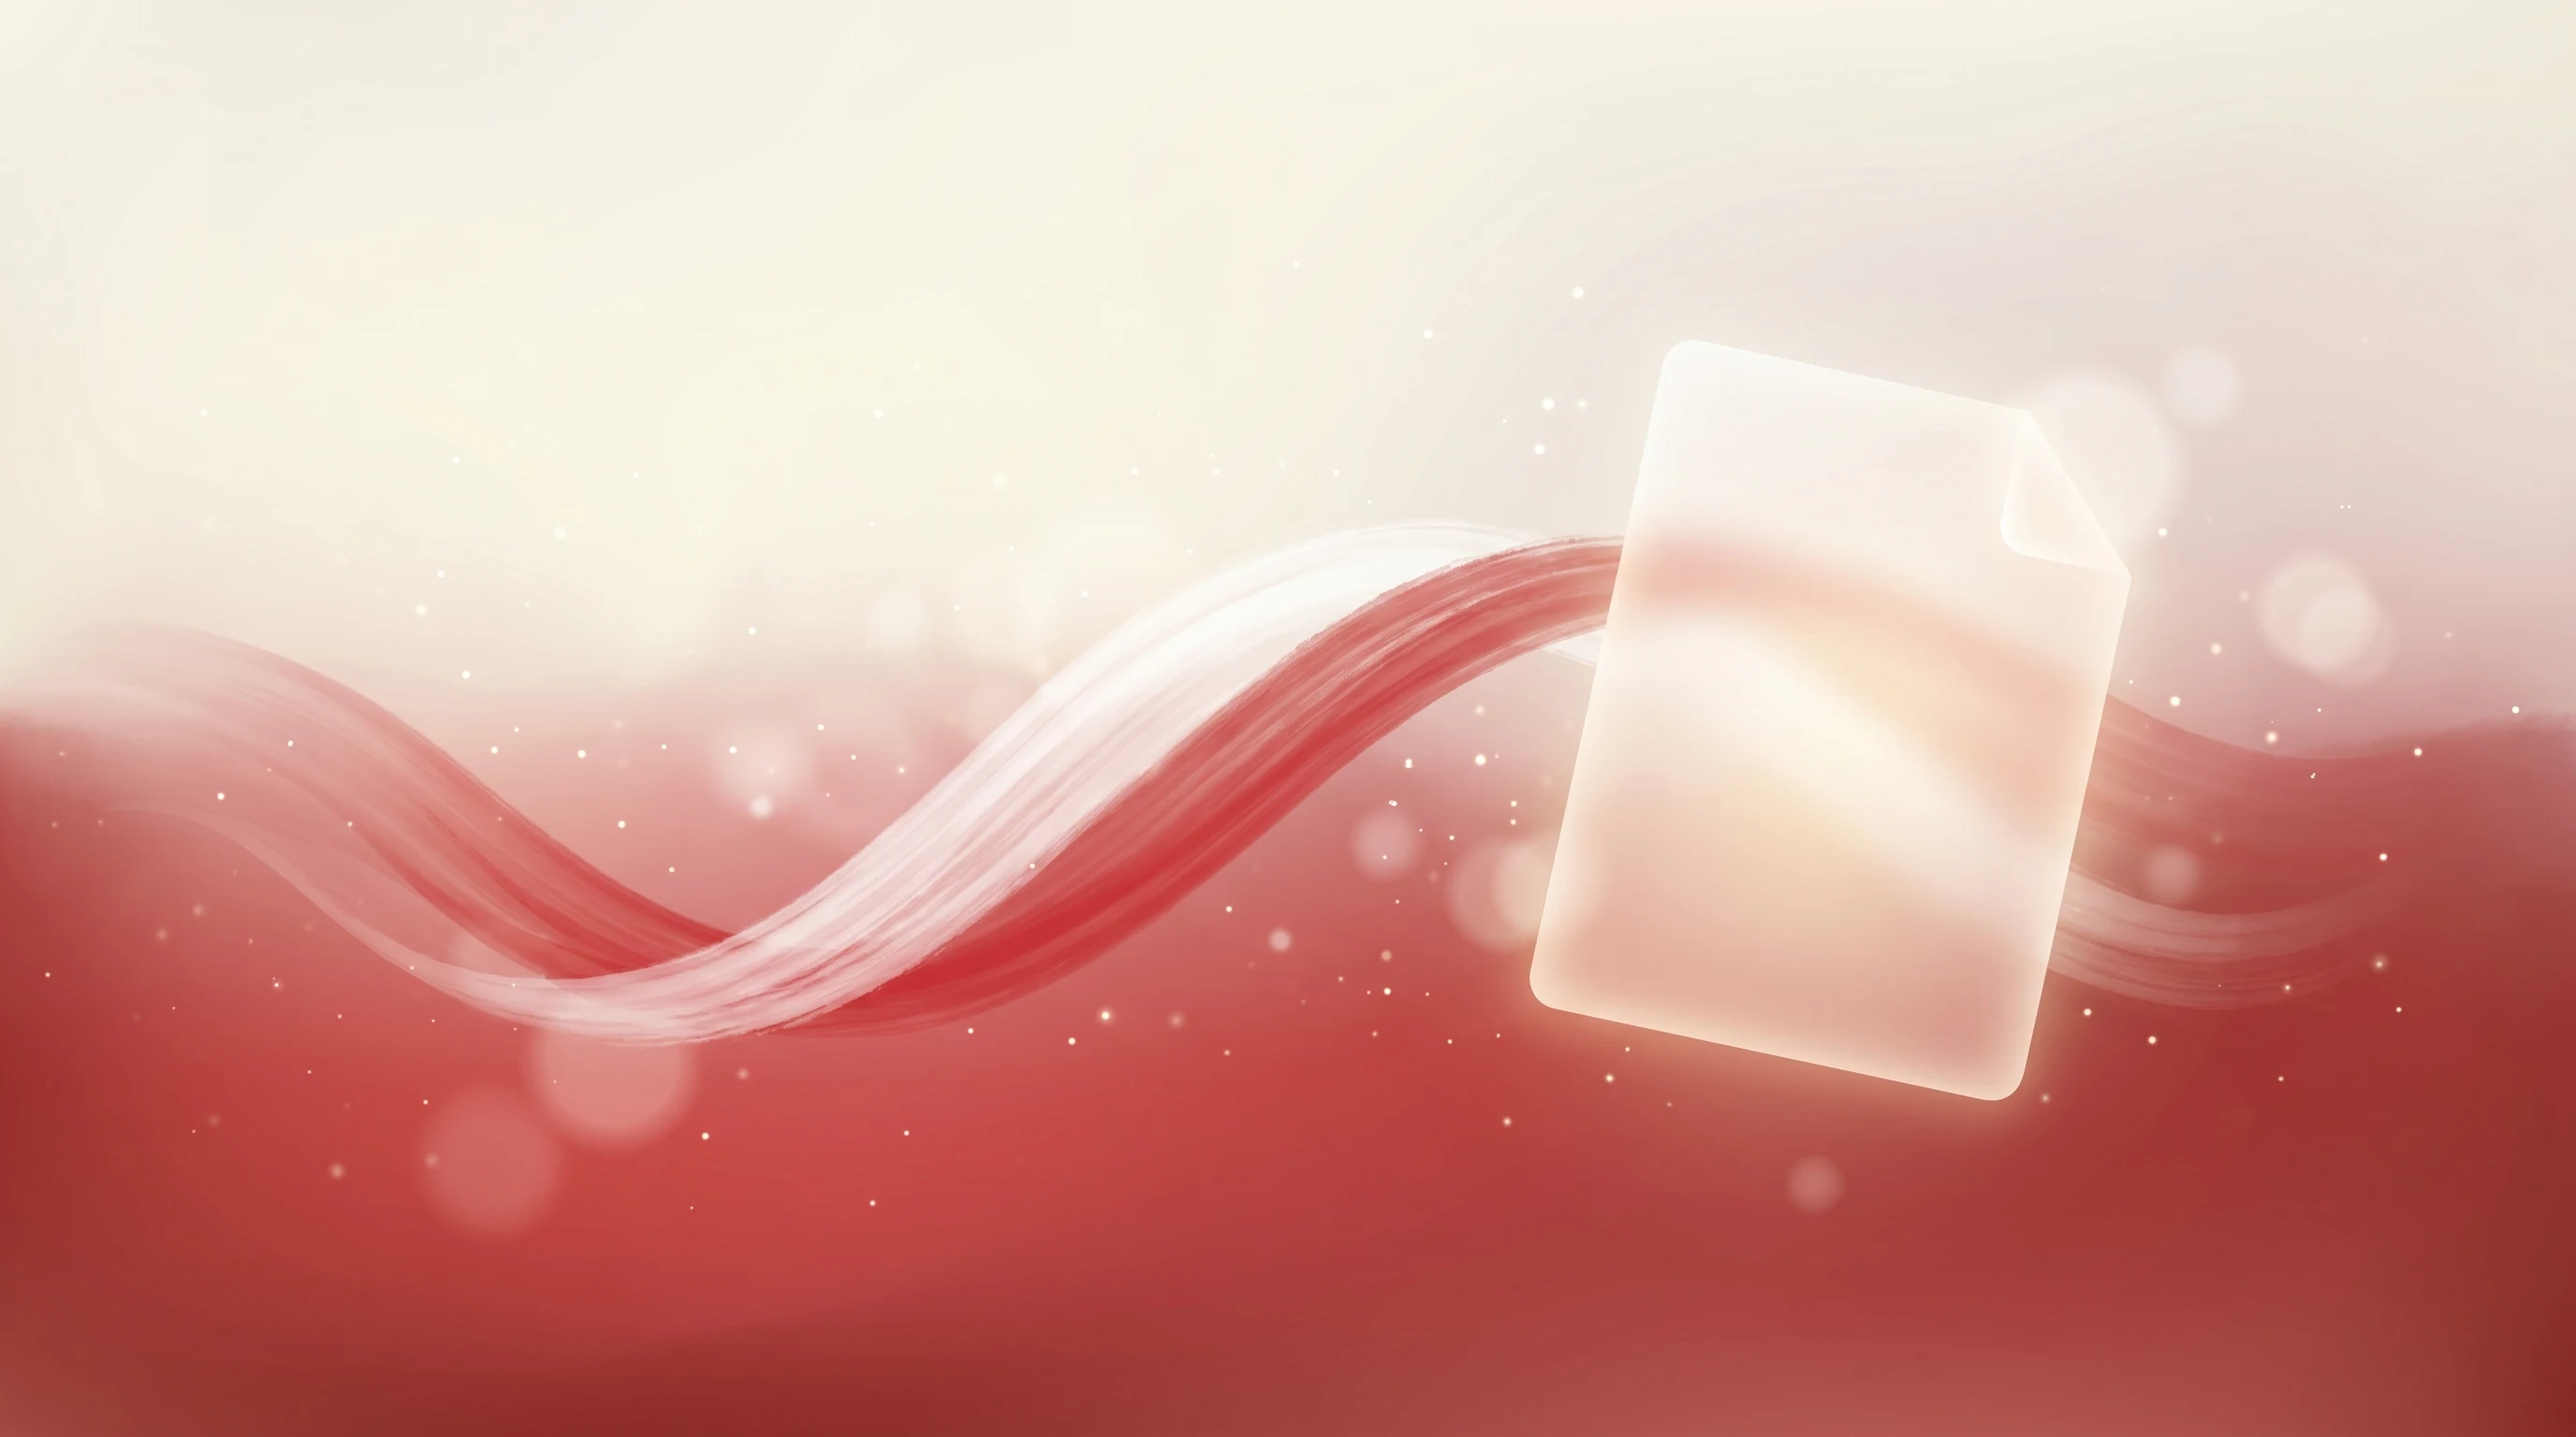
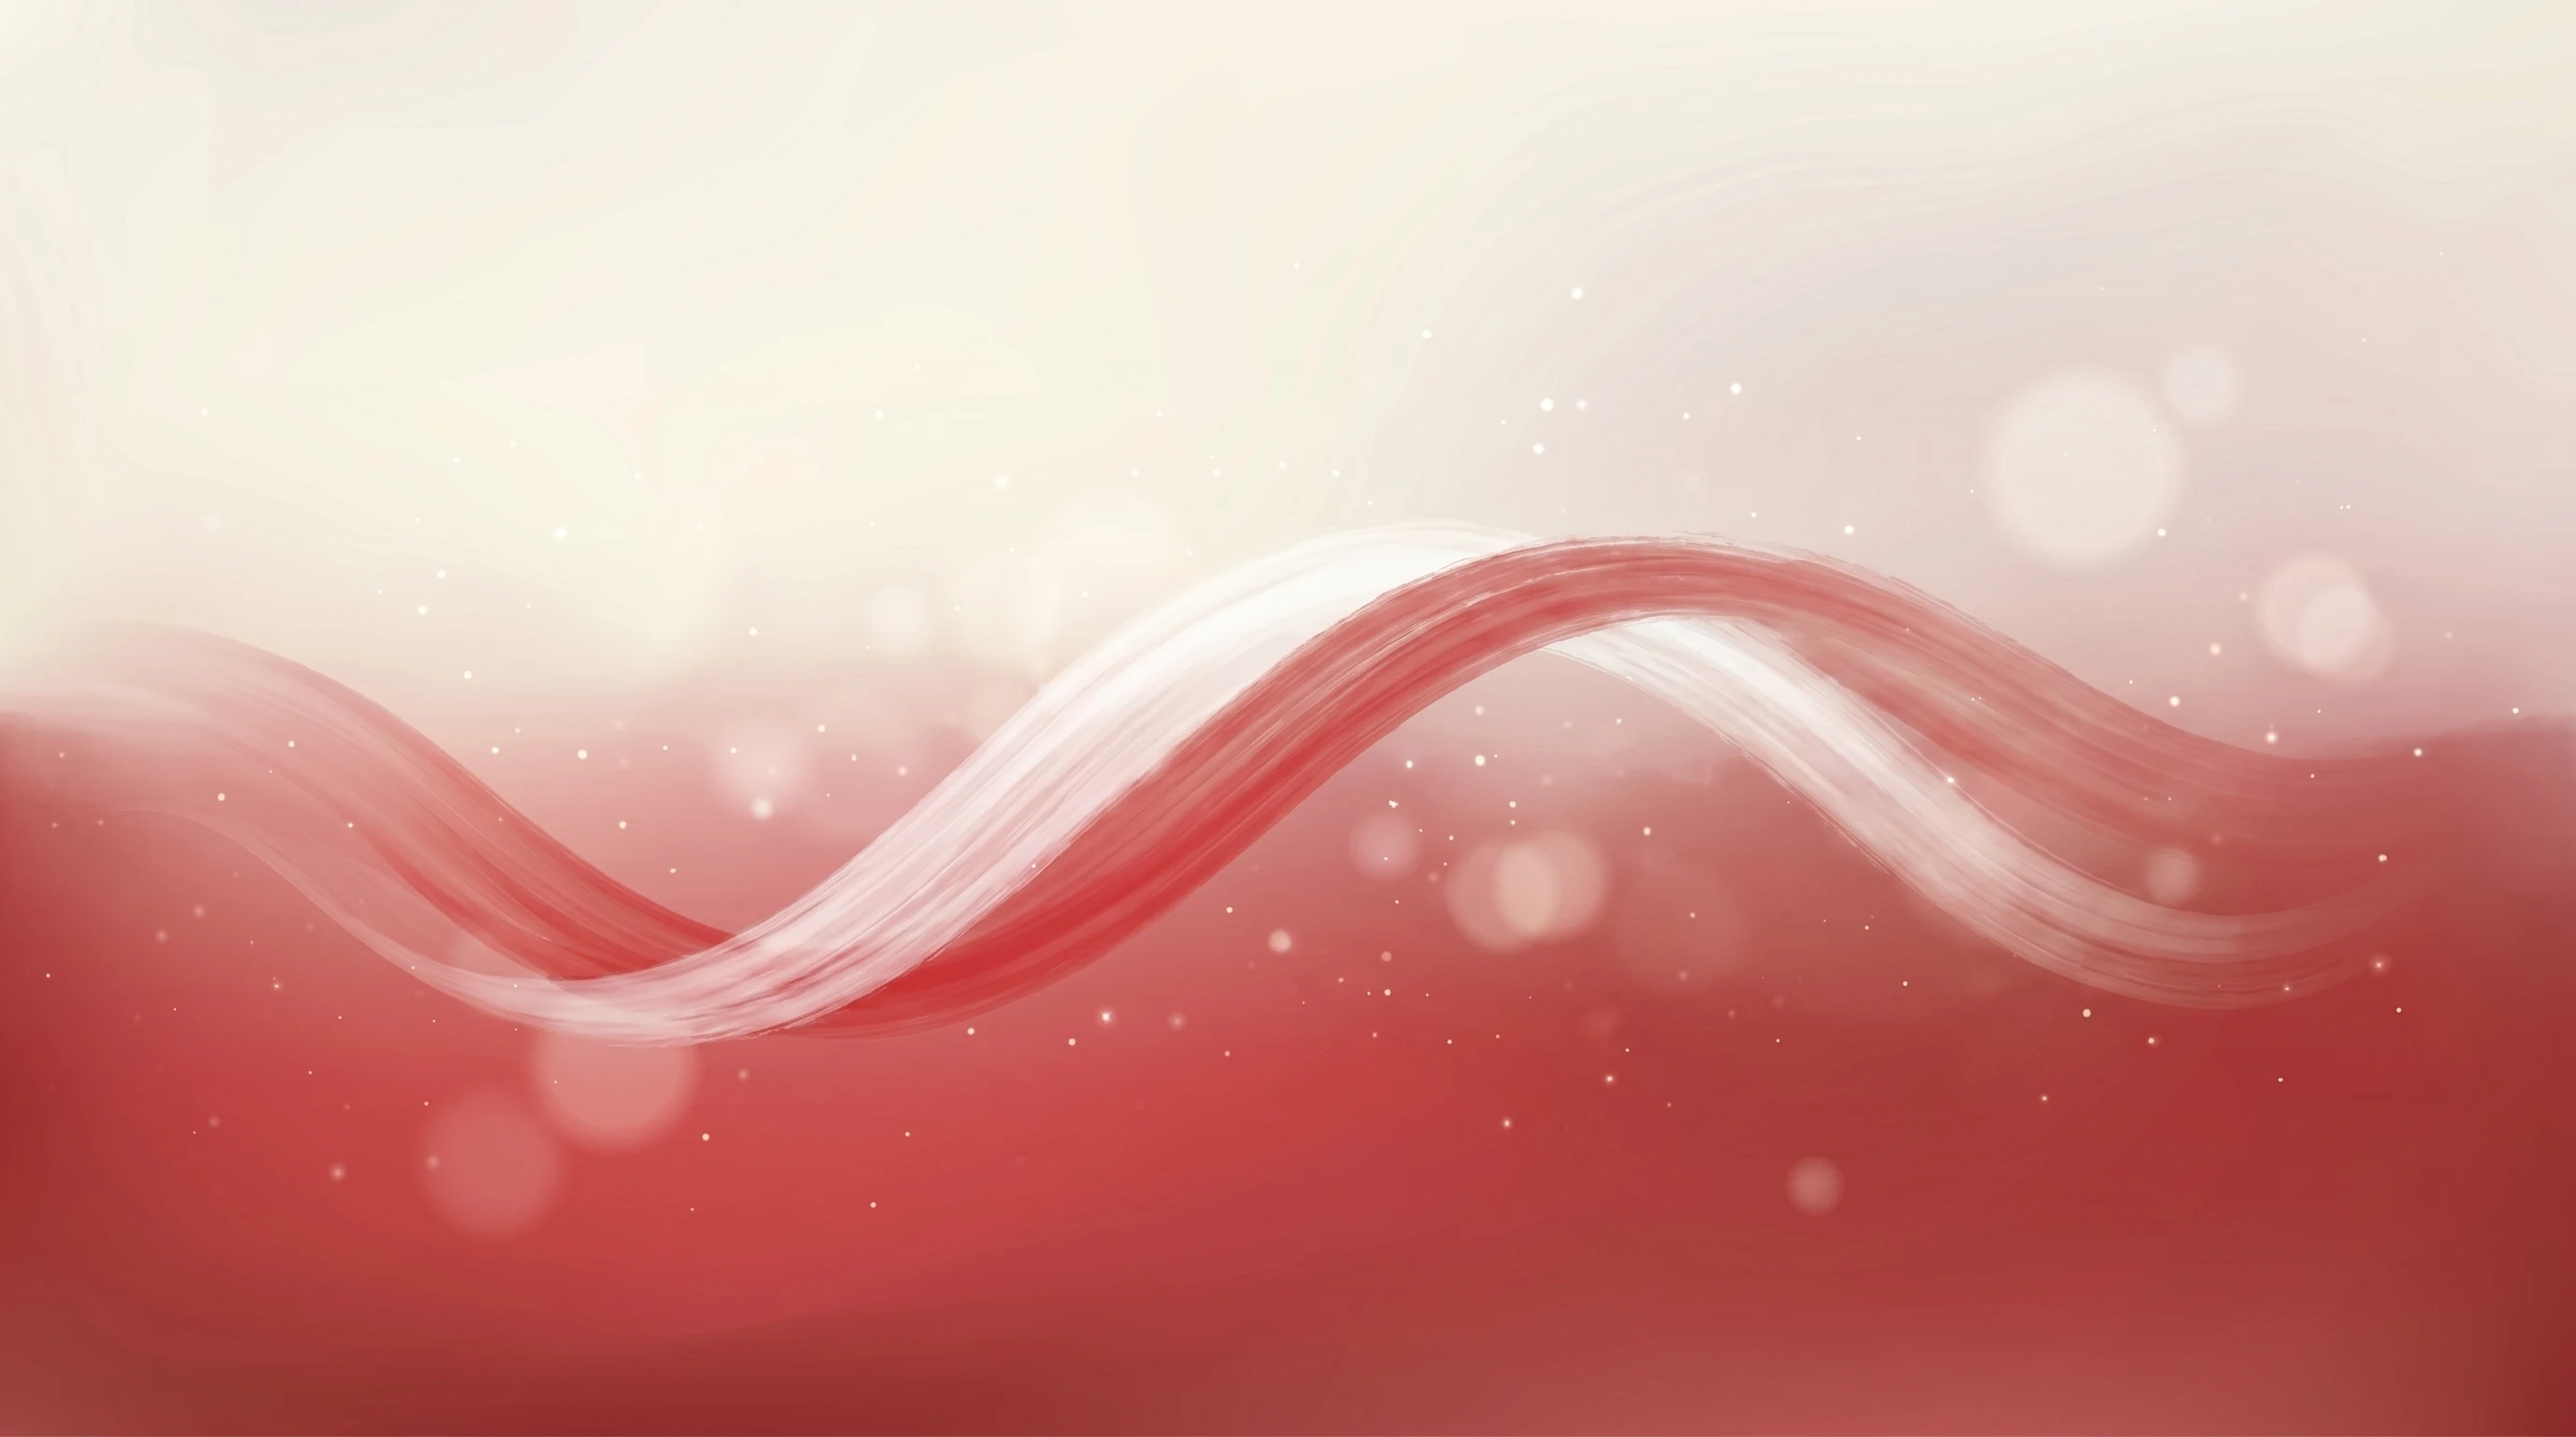
Instrukcje: poprawki banerow, box serwisowy i glow CTA
- banner-pl: usunieta kartka (zostaje gradient bialo-czerwony + wstega).
- banner-quick-start: motyw predkosci (smugi pedu + strzalka) zamiast dokumentu.
- box w aside zmieniony na serwisowy: "Masz problem z {model}?" + CTA do
  /serwis/{marka} (brand-aware).
- AttentionGlow: jednorazowy kolorowy glow pod boxem "Kup ..." ~3,5 s po
  wejsciu (styl Google), szanuje prefers-reduced-motion.

Changed region(s): [[0.5625, 0.2188, 0.8438, 0.8125]]

diff --git a/src/app/instrukcje/[slug]/page.tsx b/src/app/instrukcje/[slug]/page.tsx
@@ -14,6 +14,7 @@ import {
   PL_MANUAL_BANNER,
 } from '@/data/manuals'
 import { getProductBySlug } from '@/data/products'
+import AttentionGlow from '@/app/instrukcje/_components/AttentionGlow'
 
 interface PageProps {
   params: Promise<{ slug: string }>
@@ -174,28 +175,31 @@ export default async function ManualHubPage({ params }: PageProps) {
           {/* Prawa: produkt + CTA */}
           <aside className="lg:col-span-1 space-y-6">
             {product && (
-              <div className="rounded-xl border border-slate-200 p-5">
-                <h3 className="font-bold text-slate-900">Kup {manual.name}</h3>
-                <p className="text-sm text-slate-600 mt-1">{product.shortDescription}</p>
-                <Link
-                  href={`/produkt/${product.slug}`}
-                  className="inline-flex items-center gap-1 mt-4 text-sm font-medium text-blue-600 hover:underline"
-                >
-                  Zobacz w sklepie <ChevronRightIcon size={16} />
-                </Link>
-              </div>
+              <AttentionGlow>
+                <div className="rounded-xl border border-slate-200 bg-white p-5">
+                  <h3 className="font-bold text-slate-900">Kup {manual.name}</h3>
+                  <p className="text-sm text-slate-600 mt-1">{product.shortDescription}</p>
+                  <Link
+                    href={`/produkt/${product.slug}`}
+                    className="inline-flex items-center gap-1 mt-4 text-sm font-medium text-blue-600 hover:underline"
+                  >
+                    Zobacz w sklepie <ChevronRightIcon size={16} />
+                  </Link>
+                </div>
+              </AttentionGlow>
             )}
 
             <div className="rounded-xl border border-slate-200 bg-slate-50 p-5">
-              <h3 className="font-bold text-slate-900">Potrzebujesz pomocy z {manual.model}?</h3>
+              <h3 className="font-bold text-slate-900">Masz problem z {manual.name}?</h3>
               <p className="text-sm text-slate-600 mt-1">
-                Doradzimy w konfiguracji, wdrożeniu floty i serwisie urządzeń auto-ID.
+                Nie skanuje, nie włącza się albo zgłasza błąd? Zdiagnozujemy usterkę, naprawimy
+                urządzenie i pomożemy w konfiguracji oraz wdrożeniu floty.
               </p>
               <Link
-                href="/kontakt"
+                href={`/serwis/${manual.brand.toLowerCase()}`}
                 className="inline-flex items-center justify-center w-full mt-4 px-4 py-2.5 rounded-lg bg-blue-600 text-white text-sm font-medium hover:bg-blue-700 transition-colors"
               >
-                Skontaktuj się
+                Zgłoś do serwisu
               </Link>
             </div>
           </aside>

diff --git a/src/app/instrukcje/_components/AttentionGlow.tsx b/src/app/instrukcje/_components/AttentionGlow.tsx
@@ -1,0 +1,52 @@
+'use client'
+
+import { useEffect, useRef } from 'react'
+
+/**
+ * Jednorazowy, kolorowy „glow" pod elementem (styl Google/Gemini), uruchamiany
+ * ~3,5 s po wejściu na stronę — delikatnie kieruje wzrok np. na box „Kup …".
+ * Zapala się i gaśnie raz. Szanuje prefers-reduced-motion.
+ */
+export default function AttentionGlow({
+  children,
+  delay = 3500,
+}: {
+  children: React.ReactNode
+  delay?: number
+}) {
+  const glowRef = useRef<HTMLDivElement>(null)
+
+  useEffect(() => {
+    const el = glowRef.current
+    if (!el) return
+    if (window.matchMedia?.('(prefers-reduced-motion: reduce)').matches) return
+
+    const t = setTimeout(() => {
+      el.animate(
+        [
+          { opacity: 0, transform: 'scale(0.97)' },
+          { opacity: 0.85, transform: 'scale(1.03)', offset: 0.45 },
+          { opacity: 0, transform: 'scale(1.03)' },
+        ],
+        { duration: 2600, easing: 'ease-in-out' },
+      )
+    }, delay)
+
+    return () => clearTimeout(t)
+  }, [delay])
+
+  return (
+    <div className="relative isolate">
+      <div
+        ref={glowRef}
+        aria-hidden="true"
+        className="pointer-events-none absolute -inset-2.5 -z-10 rounded-3xl opacity-0 blur-2xl"
+        style={{
+          background:
+            'linear-gradient(90deg, #4285F4 0%, #9b72cb 28%, #d96570 52%, #f2a60c 76%, #34a853 100%)',
+        }}
+      />
+      <div className="relative">{children}</div>
+    </div>
+  )
+}

diff --git a/src/app/instrukcje/[slug]/instrukcja-po-polsku/page.tsx b/src/app/instrukcje/[slug]/instrukcja-po-polsku/page.tsx
@@ -152,12 +152,13 @@ export default async function PolishManualPage({ params }: PageProps) {
               </div>
             )}
             <div className="rounded-xl border border-slate-200 bg-slate-50 p-5">
-              <h3 className="font-bold text-slate-900">Potrzebujesz pomocy z {manual.model}?</h3>
+              <h3 className="font-bold text-slate-900">Masz problem z {manual.name}?</h3>
               <p className="text-sm text-slate-600 mt-1">
-                Doradzimy w konfiguracji, wdrożeniu floty i serwisie urządzeń auto-ID.
+                Nie skanuje, nie włącza się albo zgłasza błąd? Zdiagnozujemy usterkę, naprawimy
+                urządzenie i pomożemy w konfiguracji oraz wdrożeniu floty.
               </p>
-              <Link href="/kontakt" className="inline-flex items-center justify-center w-full mt-4 px-4 py-2.5 rounded-lg bg-blue-600 text-white text-sm font-medium hover:bg-blue-700 transition-colors">
-                Skontaktuj się
+              <Link href={`/serwis/${manual.brand.toLowerCase()}`} className="inline-flex items-center justify-center w-full mt-4 px-4 py-2.5 rounded-lg bg-blue-600 text-white text-sm font-medium hover:bg-blue-700 transition-colors">
+                Zgłoś do serwisu
               </Link>
             </div>
           </aside>
